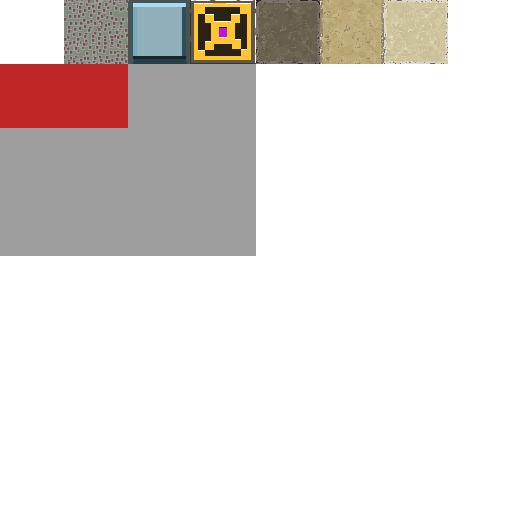
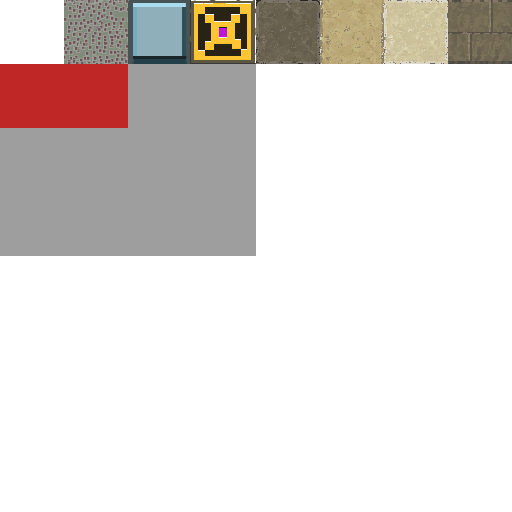
wall00: стена из каменной кладки, тайл RECT_MASONRY без растяжения со сдвигом сетки; атлас: кладка; room00: стены изнутри и общие стены — кладка wall00 (masonryTileSize, colorMasonry); стенд: wall00

Changed region(s): [[0.875, 0.0, 1.0, 0.125]]

diff --git a/src/geometry/08_wall00/wall00.ts b/src/geometry/08_wall00/wall00.ts
@@ -1,0 +1,157 @@
+import { _GM, type IBuffersGeom, type A2, type A3 } from "_CORE/_M/_gm"
+import { RECT_MASONRY } from "atlases/atlas00/atlas00"
+import { RECT_AO_NONE, RECT_AO_TOP } from "atlases/atlasAo00/atlasAo00"
+
+// Плоская вертикальная стена из каменной кладки (тайл RECT_MASONRY атласа atlas00).
+//
+// В плане — отрезок от start до end относительно pos, по высоте — от pos[1] до pos[1] + height. Лицо смотрит
+// вправо от хода start → end, по нормали (−dz, dx), как у всех фабрик вдоль пути: идёт против часовой стрелки
+// сверху — лицо наружу, по часовой — внутрь контура.
+//
+// Тайл не растягивается: кладка повторяется квадратами tileSize × tileSize метров, стена режется на ячейки
+// по линиям сетки тайла, у крайних ячеек берётся только часть тайла. Начало сетки сдвигается tileOffsetX
+// (вдоль стены от start) и tileOffsetY (вверх от низа) — так соседние куски одной стены (по бокам и над проёмом)
+// продолжают одну и ту же кладку.
+//
+// uv2 — atlasAo00: тень полосой aoLength у низа (угол с полом или земля) и, если задано, у верха (угол с потолком).
+// Полосы режут ячейки по высоте, поэтому тень у любого куска одной ширины.
+
+type T = {
+    pos?: A3,           // начало координат start и end; pos[1] — низ стены
+    start?: A2,         // начало отрезка в плане [x, z]
+    end?: A2,           // конец отрезка в плане [x, z]
+    height?: number,    // высота стены
+    tileSize?: number,  // сторона одного тайла кладки в метрах
+    tileOffsetX?: number, // где по сетке тайла стоит start: расстояние от начала сетки вдоль стены
+    tileOffsetY?: number, // где по сетке тайла стоит низ стены: расстояние от начала сетки вверх
+    shadowBottom?: boolean, // тень у низа — угол с полом или примыкание к земле
+    shadowTop?: boolean,    // тень у верха — угол с потолком
+    // длина, на которую растягивается тайл тени от ребра; видимая тень — примерно её четверть
+    aoLength?: number,
+    // базовый цвет до запечённого освещения; умножается на тайл атласа
+    colorWall?: A3,
+}
+
+export const DEFAULT_OPTS: Required<T> = {
+    pos: [0, 0, 0],
+    // слева направо — лицо смотрит на зрителя (+z)
+    start: [-3, 0],
+    end: [3, 0],
+    height: 4,
+    tileSize: 1.2,
+    tileOffsetX: 0,
+    tileOffsetY: 0,
+    shadowBottom: true,
+    shadowTop: false,
+    aoLength: .5,
+    colorWall: [.8, .73, .74],
+}
+
+// случайные опции из диапазона, в котором модуль используется; по ним гоняют check:geom и стенд
+export const randomOpts = (): T => {
+    const rand = (min: number, max: number) => min + Math.random() * (max - min)
+    const angle = rand(0, Math.PI * 2)
+    const length = rand(.3, 12)
+    const startX = rand(-2, 2), startZ = rand(-2, 2)
+    return {
+        start: [startX, startZ],
+        end: [startX + Math.cos(angle) * length, startZ + Math.sin(angle) * length],
+        height: rand(.2, 8),
+        tileSize: rand(.5, 2),
+        tileOffsetX: rand(-5, 5),
+        tileOffsetY: rand(-5, 5),
+        shadowBottom: Math.random() < .8,
+        shadowTop: Math.random() < .3,
+        aoLength: rand(.3, .7),
+        //colorWall: [rand(.72, .88), rand(.66, .8), rand(.66, .82)],
+        colorWall: [0, 0, 0],
+    }
+}
+
+// Точки разреза отрезка [0, length] по линиям сетки шага tileSize, сдвинутой на offset, плюс дополнительные
+// разрезы extraCuts; по возрастанию, без повторов, с обоими концами
+const cutsAlong = (length: number, tileSize: number, offset: number, extraCuts: number[] = []): number[] => {
+    const cuts = [0, length, ...extraCuts.filter(cut => cut > 0 && cut < length)]
+    // первая линия сетки после 0: координата в сетке offset + distance кратна tileSize
+    for (let distance = (Math.floor(offset / tileSize) + 1) * tileSize - offset; distance < length; distance += tileSize) {
+        cuts.push(distance)
+    }
+    cuts.sort((a, b) => a - b)
+    return cuts.filter((cut, i) => i === 0 || cut - cuts[i - 1] > 1e-6)
+}
+
+export const wall00 = (opts: T = {}): IBuffersGeom => {
+    const o: Required<T> = { ...DEFAULT_OPTS, ...opts }
+    const { pos, start, end, tileOffsetX, tileOffsetY, shadowBottom, shadowTop, colorWall } = o
+    const height = Math.max(0, o.height)
+    const tileSize = Math.max(.05, o.tileSize)
+    const aoLength = Math.max(1e-3, o.aoLength)
+
+    const builder = _GM.createGeomBuilder()
+    const { quad, collideQuad } = builder
+
+    const length = Math.hypot(end[0] - start[0], end[1] - start[1])
+    if (length < 1e-6 || height < 1e-6) return builder.g
+    const direction: A2 = [(end[0] - start[0]) / length, (end[1] - start[1]) / length]
+    // лицо — вправо от хода
+    const outwardNormal: A3 = [-direction[1], 0, direction[0]]
+    // точка стены: distance вдоль от start, y — над низом
+    const pointAt = (distance: number, y: number): A3 =>
+        [pos[0] + start[0] + direction[0] * distance, pos[1] + y, pos[2] + start[1] + direction[1] * distance]
+
+    // ---- тень: полоса aoLength у затеняющего ребра; при тени с обеих сторон полосы не шире половины стены
+
+    const bandHeight = shadowBottom && shadowTop ? Math.min(aoLength, height / 2) : Math.min(aoLength, height)
+    const clamp01 = (x: number) => Math.min(1, Math.max(0, x))
+    // uv2 на высоте y ячейки: тень у верхнего края тайла AO_TOP — у самого ребра, к краю полосы сходит на нет.
+    // Полосу выбирает середина ячейки: ячейки не пересекают границ полос, а uv2 треугольника должен лежать
+    // в одном тайле AO
+    const aoUvInCell = (y: number, cellMiddle: number): A2 => {
+        if (shadowBottom && cellMiddle < bandHeight) return _GM.rectPoint(RECT_AO_TOP, .5, clamp01(1 - y / aoLength))
+        if (shadowTop && cellMiddle > height - bandHeight) return _GM.rectPoint(RECT_AO_TOP, .5, clamp01(1 - (height - y) / aoLength))
+        return _GM.rectPoint(RECT_AO_NONE, .5, .5)
+    }
+
+    // ---- ячейки: разрезы по сетке тайла и по границам полос тени
+
+    const bandCuts: number[] = []
+    if (shadowBottom) bandCuts.push(bandHeight)
+    if (shadowTop) bandCuts.push(height - bandHeight)
+    const columnCuts = cutsAlong(length, tileSize, tileOffsetX)
+    const rowCuts = cutsAlong(height, tileSize, tileOffsetY, bandCuts)
+
+    // доли тайла у краёв отрезка [from, to]: номер тайла — по середине ячейки, чтобы край на линии сетки дал 0 или 1
+    const tileFractions = (from: number, to: number, offset: number): A2 => {
+        const tileIndex = Math.floor((offset + (from + to) / 2) / tileSize)
+        return [
+            clamp01((offset + from) / tileSize - tileIndex),
+            clamp01((offset + to) / tileSize - tileIndex),
+        ]
+    }
+
+    for (let row = 0; row < rowCuts.length - 1; ++row) {
+        const yFrom = rowCuts[row], yTo = rowCuts[row + 1]
+        const [fractionBottom, fractionTop] = tileFractions(yFrom, yTo, tileOffsetY)
+        const middleY = (yFrom + yTo) / 2
+        const aoBottom = aoUvInCell(yFrom, middleY), aoTop = aoUvInCell(yTo, middleY)
+        for (let column = 0; column < columnCuts.length - 1; ++column) {
+            const distanceFrom = columnCuts[column], distanceTo = columnCuts[column + 1]
+            const [fractionLeft, fractionRight] = tileFractions(distanceFrom, distanceTo, tileOffsetX)
+            quad(
+                pointAt(distanceFrom, yFrom), pointAt(distanceTo, yFrom), pointAt(distanceTo, yTo), pointAt(distanceFrom, yTo),
+                outwardNormal,
+                [
+                    ..._GM.rectPoint(RECT_MASONRY, fractionLeft, fractionBottom), ..._GM.rectPoint(RECT_MASONRY, fractionRight, fractionBottom),
+                    ..._GM.rectPoint(RECT_MASONRY, fractionRight, fractionTop), ..._GM.rectPoint(RECT_MASONRY, fractionLeft, fractionTop),
+                ],
+                [...aoBottom, ...aoBottom, ...aoTop, ...aoTop],
+                colorWall,
+            )
+        }
+    }
+
+    // прокси — один квад на всю стену
+    collideQuad(pointAt(0, 0), pointAt(length, 0), pointAt(length, height), pointAt(0, height))
+
+    return builder.g
+}

diff --git a/src/geometry/05_room00/room00.ts b/src/geometry/05_room00/room00.ts
@@ -10,6 +10,7 @@ import { portal00 } from "geometry/02_portal00/portal00"
 import { DEFAULT_PROFILE as LINTEL_DEFAULT_PROFILE } from "geometry/03_lintel00/lintel00"
 import { profile00 } from "geometry/04_profile00/profile00"
 import { stairs00 } from "geometry/07_stairs00/stairs00"
+import { wall00 } from "geometry/08_wall00/wall00"
 
 // Комната: толстые стены по периметру, в стенах — порталы (portal00), пол и потолок — floor00 или floor01.
 //
@@ -51,7 +52,9 @@ import { stairs00 } from "geometry/07_stairs00/stairs00"
 // Свободные куски стены — между углами и порталами; пилястры встают на оба конца каждого куска (у углов и по бокам
 // порталов) и равномерно между ними.
 //
-// Атласы. uv — atlas00, белый тайл под colorWall, растянут на каждый кусок стены. uv2 — atlasAo00: тень полосой
+// Атласы. uv — atlas00. Стены изнутри (и общая стена с соседом с обеих сторон) — кладка wall00 под colorMasonry,
+// между пилястрами и над порталами, тайл не растянут; снаружи, верх стен и пороги — белый тайл под colorWall,
+// растянут на каждый кусок. uv2 — atlasAo00: тень полосой
 // aoLength у пола изнутри (и у потолка, если профиля нет) и у земли снаружи; вертикальные углы стен не затеняются.
 
 export type T_PerimeterPoint = {
@@ -104,6 +107,10 @@ type T = {
     aoLength?: number,
     // базовый цвет стен до запечённого освещения; умножается на тайл атласа
     colorWall?: A3,
+    // сторона тайла кладки wall00 на стенах изнутри, в метрах
+    masonryTileSize?: number,
+    // базовый цвет кладки до запечённого освещения; по умолчанию — серо-лиловый, без рыжины, в тон полу и потолку
+    colorMasonry?: A3,
 }
 
 export const DEFAULT_OPTS: Required<T> = {
@@ -136,6 +143,8 @@ export const DEFAULT_OPTS: Required<T> = {
     maxStepUp: .4,
     aoLength: .5,
     colorWall: [.82, .8, .76],
+    masonryTileSize: 1.2,
+    colorMasonry: [.22, .2, .36],
 }
 
 // точка внутри многоугольника в плане [x, z] — по чётности пересечений луча; обход любой
@@ -245,6 +254,8 @@ export const randomOpts = (): T => {
         maxStepUp: rand(.3, .5),
         aoLength: rand(.3, .7),
         colorWall: [rand(.65, .9), rand(.65, .9), rand(.65, .9)],
+        masonryTileSize: rand(.8, 1.8),
+        colorMasonry: [rand(.72, .88), rand(.66, .8), rand(.66, .82)],
     }
 }
 
@@ -401,6 +412,31 @@ export const room00 = (opts: T = {}): IBuffersGeom => {
         }
     }
 
+    // Кусок стены, видимый из комнаты, — кладка wall00. Лицо wall00 смотрит вправо от хода start → end:
+    // если normal смотрит в другую сторону, концы меняются местами. Сетка кладки привязана к проекции на направление
+    // стены и к верху пола, поэтому куски одной стены (по бокам и над проёмом) продолжают одну кладку.
+    // Прокси wall00 не берётся — у стены свой, во всю высоту до потолка
+    const masonryTileSize = Math.max(.1, o.masonryTileSize)
+    const masonryPiece = (start: A2, end: A2, yFrom: number, yTo: number, normal: A2, shadowBottom: boolean, shadowTop: boolean) => {
+        const length = Math.hypot(end[0] - start[0], end[1] - start[1])
+        if (yTo - yFrom < 1e-6 || length < 1e-6) return
+        const facesNormal = -(end[1] - start[1]) * normal[0] + (end[0] - start[0]) * normal[1] > 0
+        const [wallStart, wallEnd] = facesNormal ? [start, end] : [end, start]
+        const wallDirection: A2 = [(wallEnd[0] - wallStart[0]) / length, (wallEnd[1] - wallStart[1]) / length]
+        const piece = wall00({
+            pos: [pos[0], pos[1] + yFrom, pos[2]],
+            start: wallStart, end: wallEnd,
+            height: yTo - yFrom,
+            tileSize: masonryTileSize,
+            tileOffsetX: wallStart[0] * wallDirection[0] + wallStart[1] * wallDirection[1],
+            tileOffsetY: yFrom - floorTop,
+            shadowBottom, shadowTop, aoLength,
+            colorWall: o.colorMasonry,
+        })
+        piece.vCollide = []
+        _GM.mergeIndexedArrays(result, piece)
+    }
+
     for (let edge = 0; edge < pointCount; ++edge) {
         const innerStart = pointAt(edge), innerEnd = pointAt(edge + 1)
         const outerStart = outerPoints[edge], outerEnd = outerPoints[(edge + 1) % pointCount]
@@ -414,11 +450,11 @@ export const room00 = (opts: T = {}): IBuffersGeom => {
 
         if (!hole) {
             // внутреннее лицо — в комнату, от пола до потолка
-            wallPiece(innerStart, innerEnd, floorTop, profileBottom, inwardNormal, true, !hasProfile)
+            masonryPiece(innerStart, innerEnd, floorTop, profileBottom, inwardNormal, true, !hasProfile)
             collideQuad(worldAt(innerStart, floorTop), worldAt(innerEnd, floorTop), worldAt(innerEnd, ceilingBottom), worldAt(innerStart, ceilingBottom))
             if (shared) {
                 // наружное — внутреннее лицо соседней комнаты
-                wallPiece(outerStart, outerEnd, floorTop, profileBottom, normal, true, !hasProfile)
+                masonryPiece(outerStart, outerEnd, floorTop, profileBottom, normal, true, !hasProfile)
                 collideQuad(worldAt(outerStart, floorTop), worldAt(outerEnd, floorTop), worldAt(outerEnd, ceilingBottom), worldAt(outerStart, ceilingBottom))
             } else {
                 // наружное — от земли до верха стен
@@ -430,18 +466,18 @@ export const room00 = (opts: T = {}): IBuffersGeom => {
             const outerFrom = along(innerFrom, normal, wallThickness), outerTo = along(innerTo, normal, wallThickness)
 
             // внутреннее лицо: по бокам дыры — во всю высоту, над дырой — от низа перемычки до потолка
-            wallPiece(innerStart, innerFrom, floorTop, profileBottom, inwardNormal, true, !hasProfile)
-            wallPiece(innerTo, innerEnd, floorTop, profileBottom, inwardNormal, true, !hasProfile)
-            wallPiece(innerFrom, innerTo, floorTop + portalHeight, profileBottom, inwardNormal, false, !hasProfile)
+            masonryPiece(innerStart, innerFrom, floorTop, profileBottom, inwardNormal, true, !hasProfile)
+            masonryPiece(innerTo, innerEnd, floorTop, profileBottom, inwardNormal, true, !hasProfile)
+            masonryPiece(innerFrom, innerTo, floorTop + portalHeight, profileBottom, inwardNormal, false, !hasProfile)
             collideQuad(worldAt(innerStart, floorTop), worldAt(innerFrom, floorTop), worldAt(innerFrom, ceilingBottom), worldAt(innerStart, ceilingBottom))
             collideQuad(worldAt(innerTo, floorTop), worldAt(innerEnd, floorTop), worldAt(innerEnd, ceilingBottom), worldAt(innerTo, ceilingBottom))
             collideQuad(worldAt(innerFrom, floorTop + portalHeight), worldAt(innerTo, floorTop + portalHeight), worldAt(innerTo, ceilingBottom), worldAt(innerFrom, ceilingBottom))
 
             if (shared) {
                 // наружное лицо — внутреннее лицо соседней комнаты, режется так же, как своё внутреннее
-                wallPiece(outerStart, outerFrom, floorTop, profileBottom, normal, true, !hasProfile)
-                wallPiece(outerTo, outerEnd, floorTop, profileBottom, normal, true, !hasProfile)
-                wallPiece(outerFrom, outerTo, floorTop + portalHeight, profileBottom, normal, false, !hasProfile)
+                masonryPiece(outerStart, outerFrom, floorTop, profileBottom, normal, true, !hasProfile)
+                masonryPiece(outerTo, outerEnd, floorTop, profileBottom, normal, true, !hasProfile)
+                masonryPiece(outerFrom, outerTo, floorTop + portalHeight, profileBottom, normal, false, !hasProfile)
                 collideQuad(worldAt(outerStart, floorTop), worldAt(outerFrom, floorTop), worldAt(outerFrom, ceilingBottom), worldAt(outerStart, ceilingBottom))
                 collideQuad(worldAt(outerTo, floorTop), worldAt(outerEnd, floorTop), worldAt(outerEnd, ceilingBottom), worldAt(outerTo, ceilingBottom))
                 collideQuad(worldAt(outerFrom, floorTop + portalHeight), worldAt(outerTo, floorTop + portalHeight), worldAt(outerTo, ceilingBottom), worldAt(outerFrom, ceilingBottom))

diff --git a/src/atlases/atlas00/atlas00.ts b/src/atlases/atlas00/atlas00.ts
@@ -20,6 +20,8 @@ export const RECT_EARTH: T_TileRect = _GM.tileRect(SIZE, 256, 0, 64, 64)
 export const RECT_SANDSTONE: T_TileRect = _GM.tileRect(SIZE, 320, 0, 64, 64)
 // известняк, светлый
 export const RECT_LIMESTONE: T_TileRect = _GM.tileRect(SIZE, 384, 0, 64, 64)
+// каменная кладка: два ряда блоков со сдвигом швов, тайлится по обеим осям
+export const RECT_MASONRY: T_TileRect = _GM.tileRect(SIZE, 448, 0, 64, 64)
 // 2:1
 export const RECT_RED: T_TileRect = _GM.tileRect(SIZE, 0, 64, 128, 64)
 export const RECT_GRAY: T_TileRect = _GM.tileRect(SIZE, 0, 128, 128, 128)
@@ -33,6 +35,7 @@ export const UV_ORNAMENT: number[] = _GM.rectUv(RECT_ORNAMENT)
 export const UV_EARTH: number[] = _GM.rectUv(RECT_EARTH)
 export const UV_SANDSTONE: number[] = _GM.rectUv(RECT_SANDSTONE)
 export const UV_LIMESTONE: number[] = _GM.rectUv(RECT_LIMESTONE)
+export const UV_MASONRY: number[] = _GM.rectUv(RECT_MASONRY)
 export const UV_RED: number[] = _GM.rectUv(RECT_RED)
 export const UV_GRAY: number[] = _GM.rectUv(RECT_GRAY)
 export const UV_GRAY_WIDE: number[] = _GM.rectUv(RECT_GRAY_WIDE)
@@ -44,6 +47,7 @@ export const UV_ORNAMENT_Q: number[] = _GM.rectUvQ(RECT_ORNAMENT)
 export const UV_EARTH_Q: number[] = _GM.rectUvQ(RECT_EARTH)
 export const UV_SANDSTONE_Q: number[] = _GM.rectUvQ(RECT_SANDSTONE)
 export const UV_LIMESTONE_Q: number[] = _GM.rectUvQ(RECT_LIMESTONE)
+export const UV_MASONRY_Q: number[] = _GM.rectUvQ(RECT_MASONRY)
 export const UV_RED_Q: number[] = _GM.rectUvQ(RECT_RED)
 export const UV_GRAY_Q: number[] = _GM.rectUvQ(RECT_GRAY)
 export const UV_GRAY_WIDE_Q: number[] = _GM.rectUvQ(RECT_GRAY_WIDE)

diff --git a/src/ch_redactor/registry.ts b/src/ch_redactor/registry.ts
@@ -10,6 +10,7 @@ import * as room00 from 'geometry/05_room00/room00'
 import * as complex00 from 'geometry/06_complex00/complex00'
 import * as stairs00 from 'geometry/07_stairs00/stairs00'
 import * as stairs01 from 'geometry/07_stairs01/stairs01'
+import * as wall00 from 'geometry/08_wall00/wall00'
 //import stairs01Ref from 'geometry/07_stairs01/ref.jpg'
 
 // Фабрики, которые можно открыть на стенде. Новая фабрика src/geometry добавляется сюда одной записью.
@@ -92,5 +93,11 @@ export const GEOM_REGISTRY: T_GeomEntry[] = [
         factory: stairs01.stairs01,
         randomOpts: stairs01.randomOpts,
         defaultOpts: stairs01.DEFAULT_OPTS,
+    },
+    {
+        name: 'wall00',
+        factory: wall00.wall00,
+        randomOpts: wall00.randomOpts,
+        defaultOpts: wall00.DEFAULT_OPTS,
     },
 ]

diff --git a/src/geometry/06_complex00/complex00.ts b/src/geometry/06_complex00/complex00.ts
@@ -87,6 +87,7 @@ export const DEFAULT_OPTS: Required<T> = {
     maxStepUp: .4,
     aoLength: .5,
     colorWall: [.82, .8, .76],
+    //colorWall: [0, 0, 0],
 }
 
 const isInsidePolygon = ([x, z]: A2, polygon: A2[]): boolean => {
